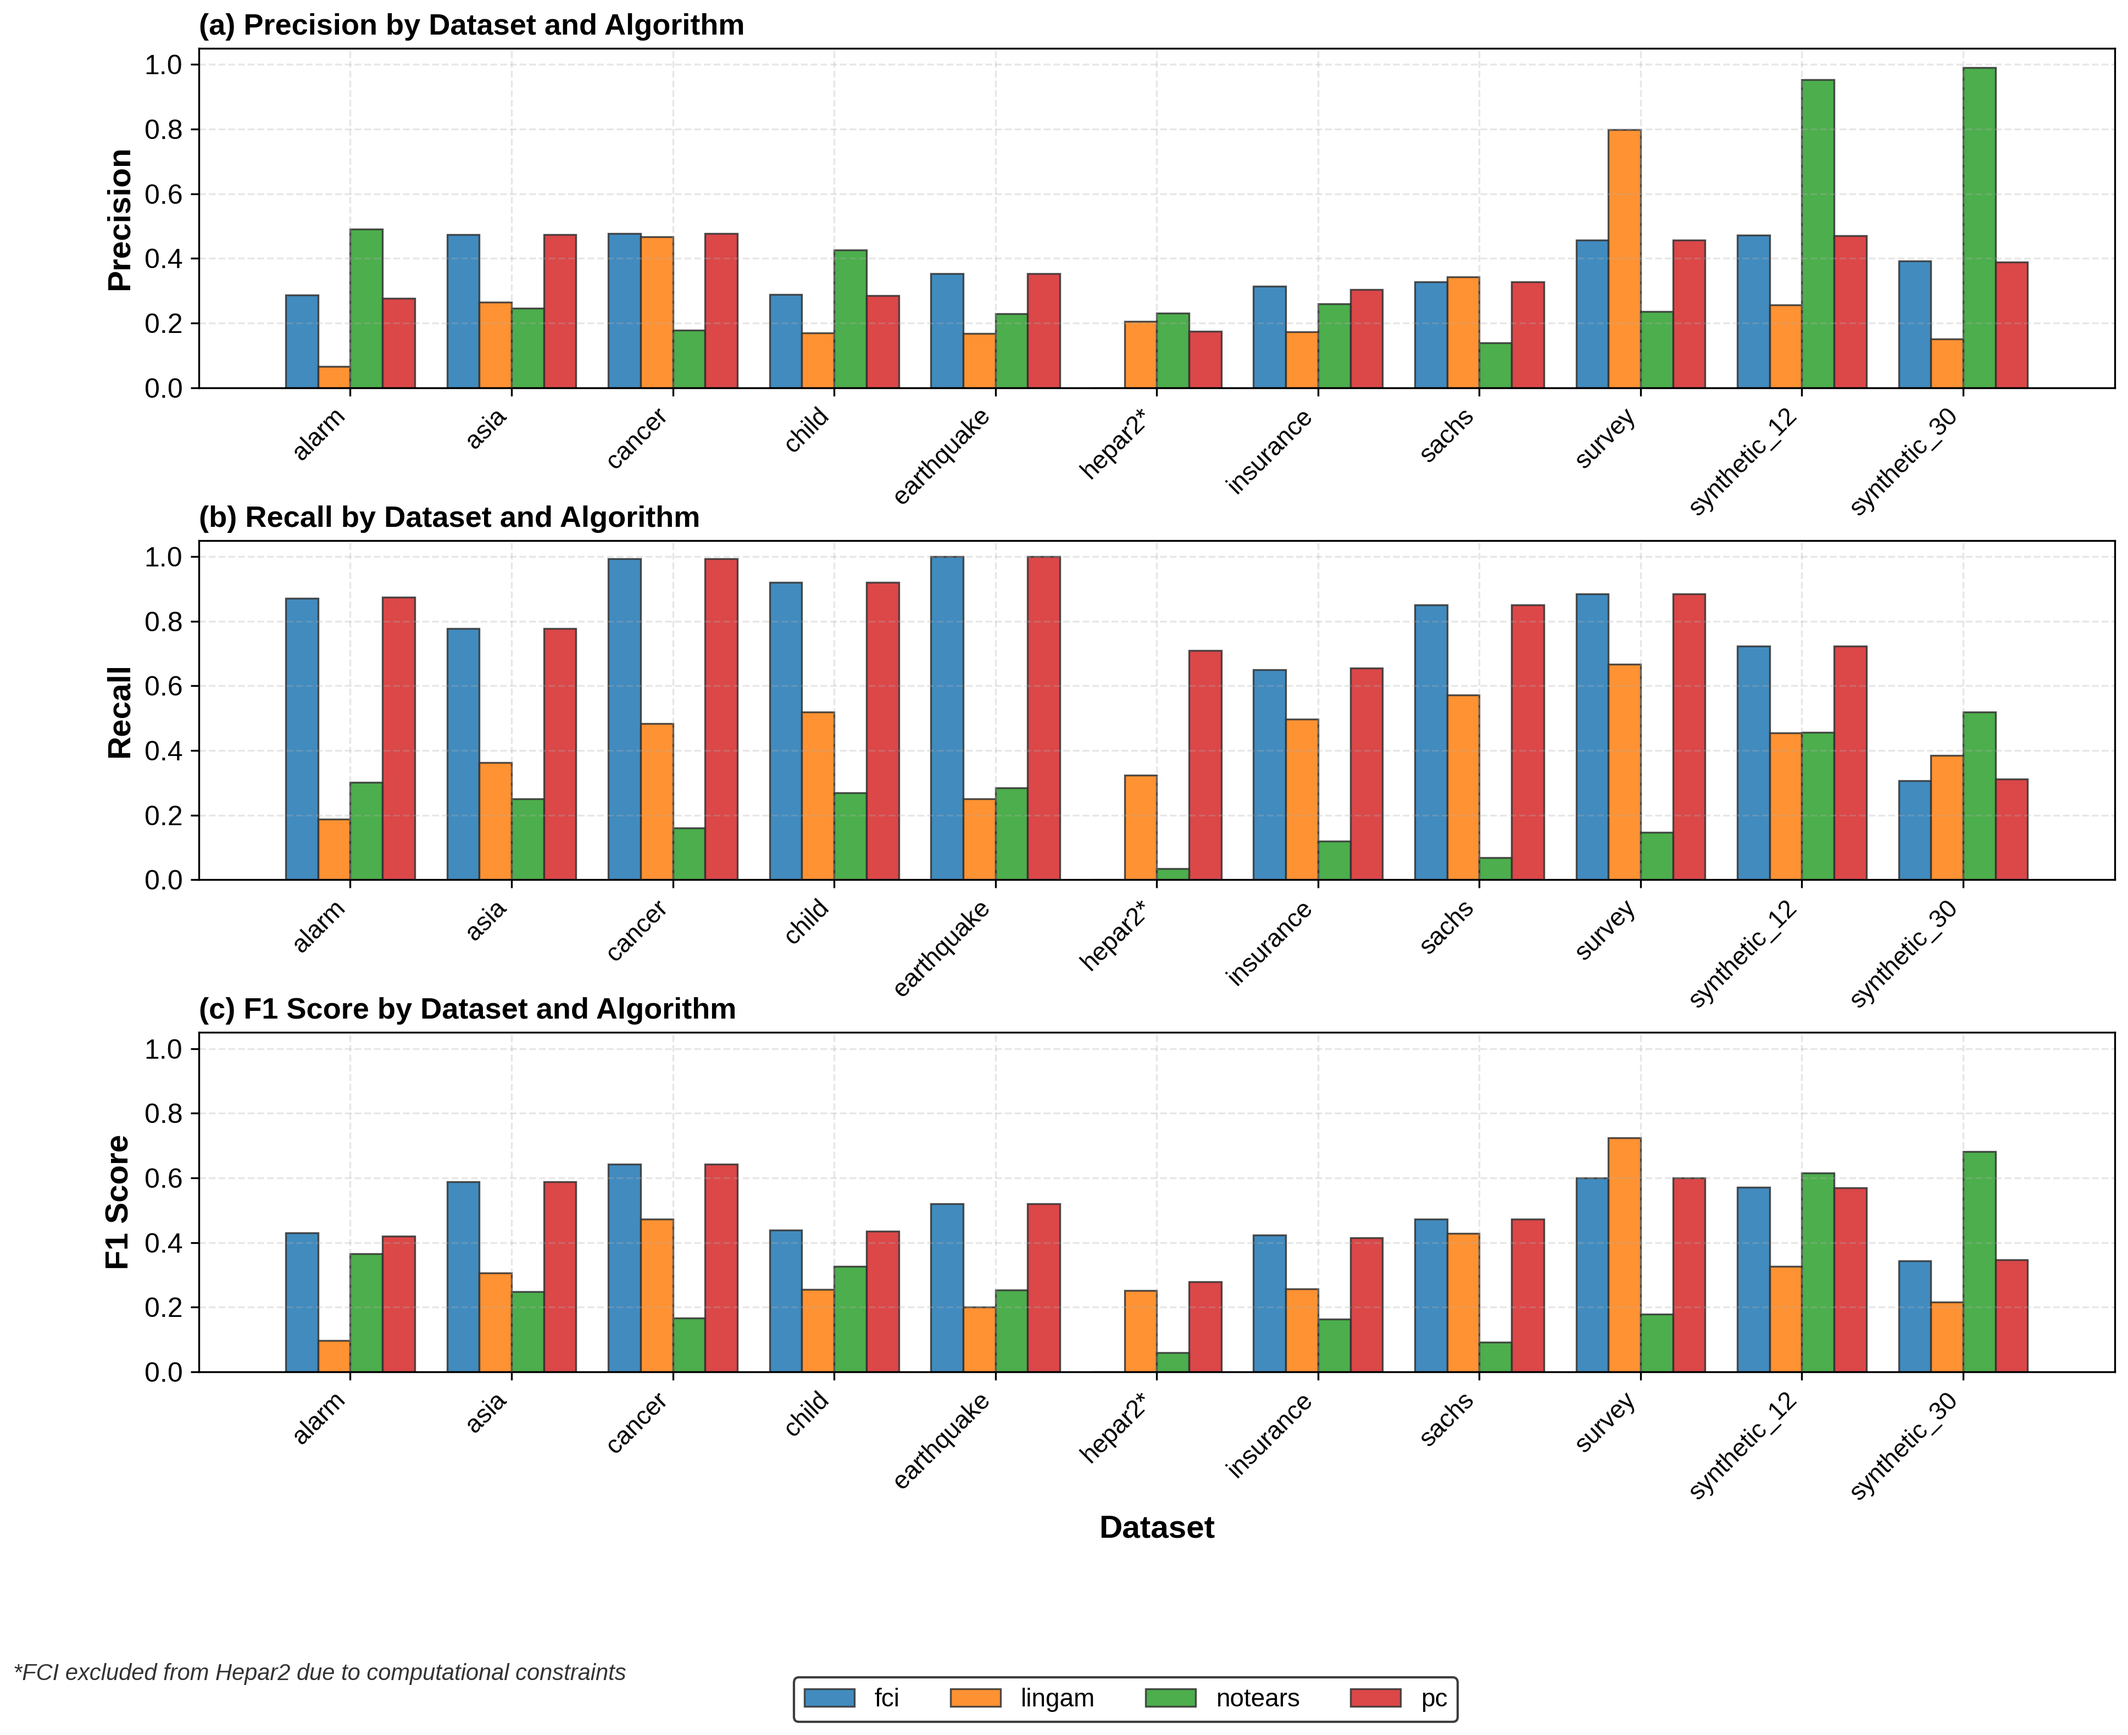
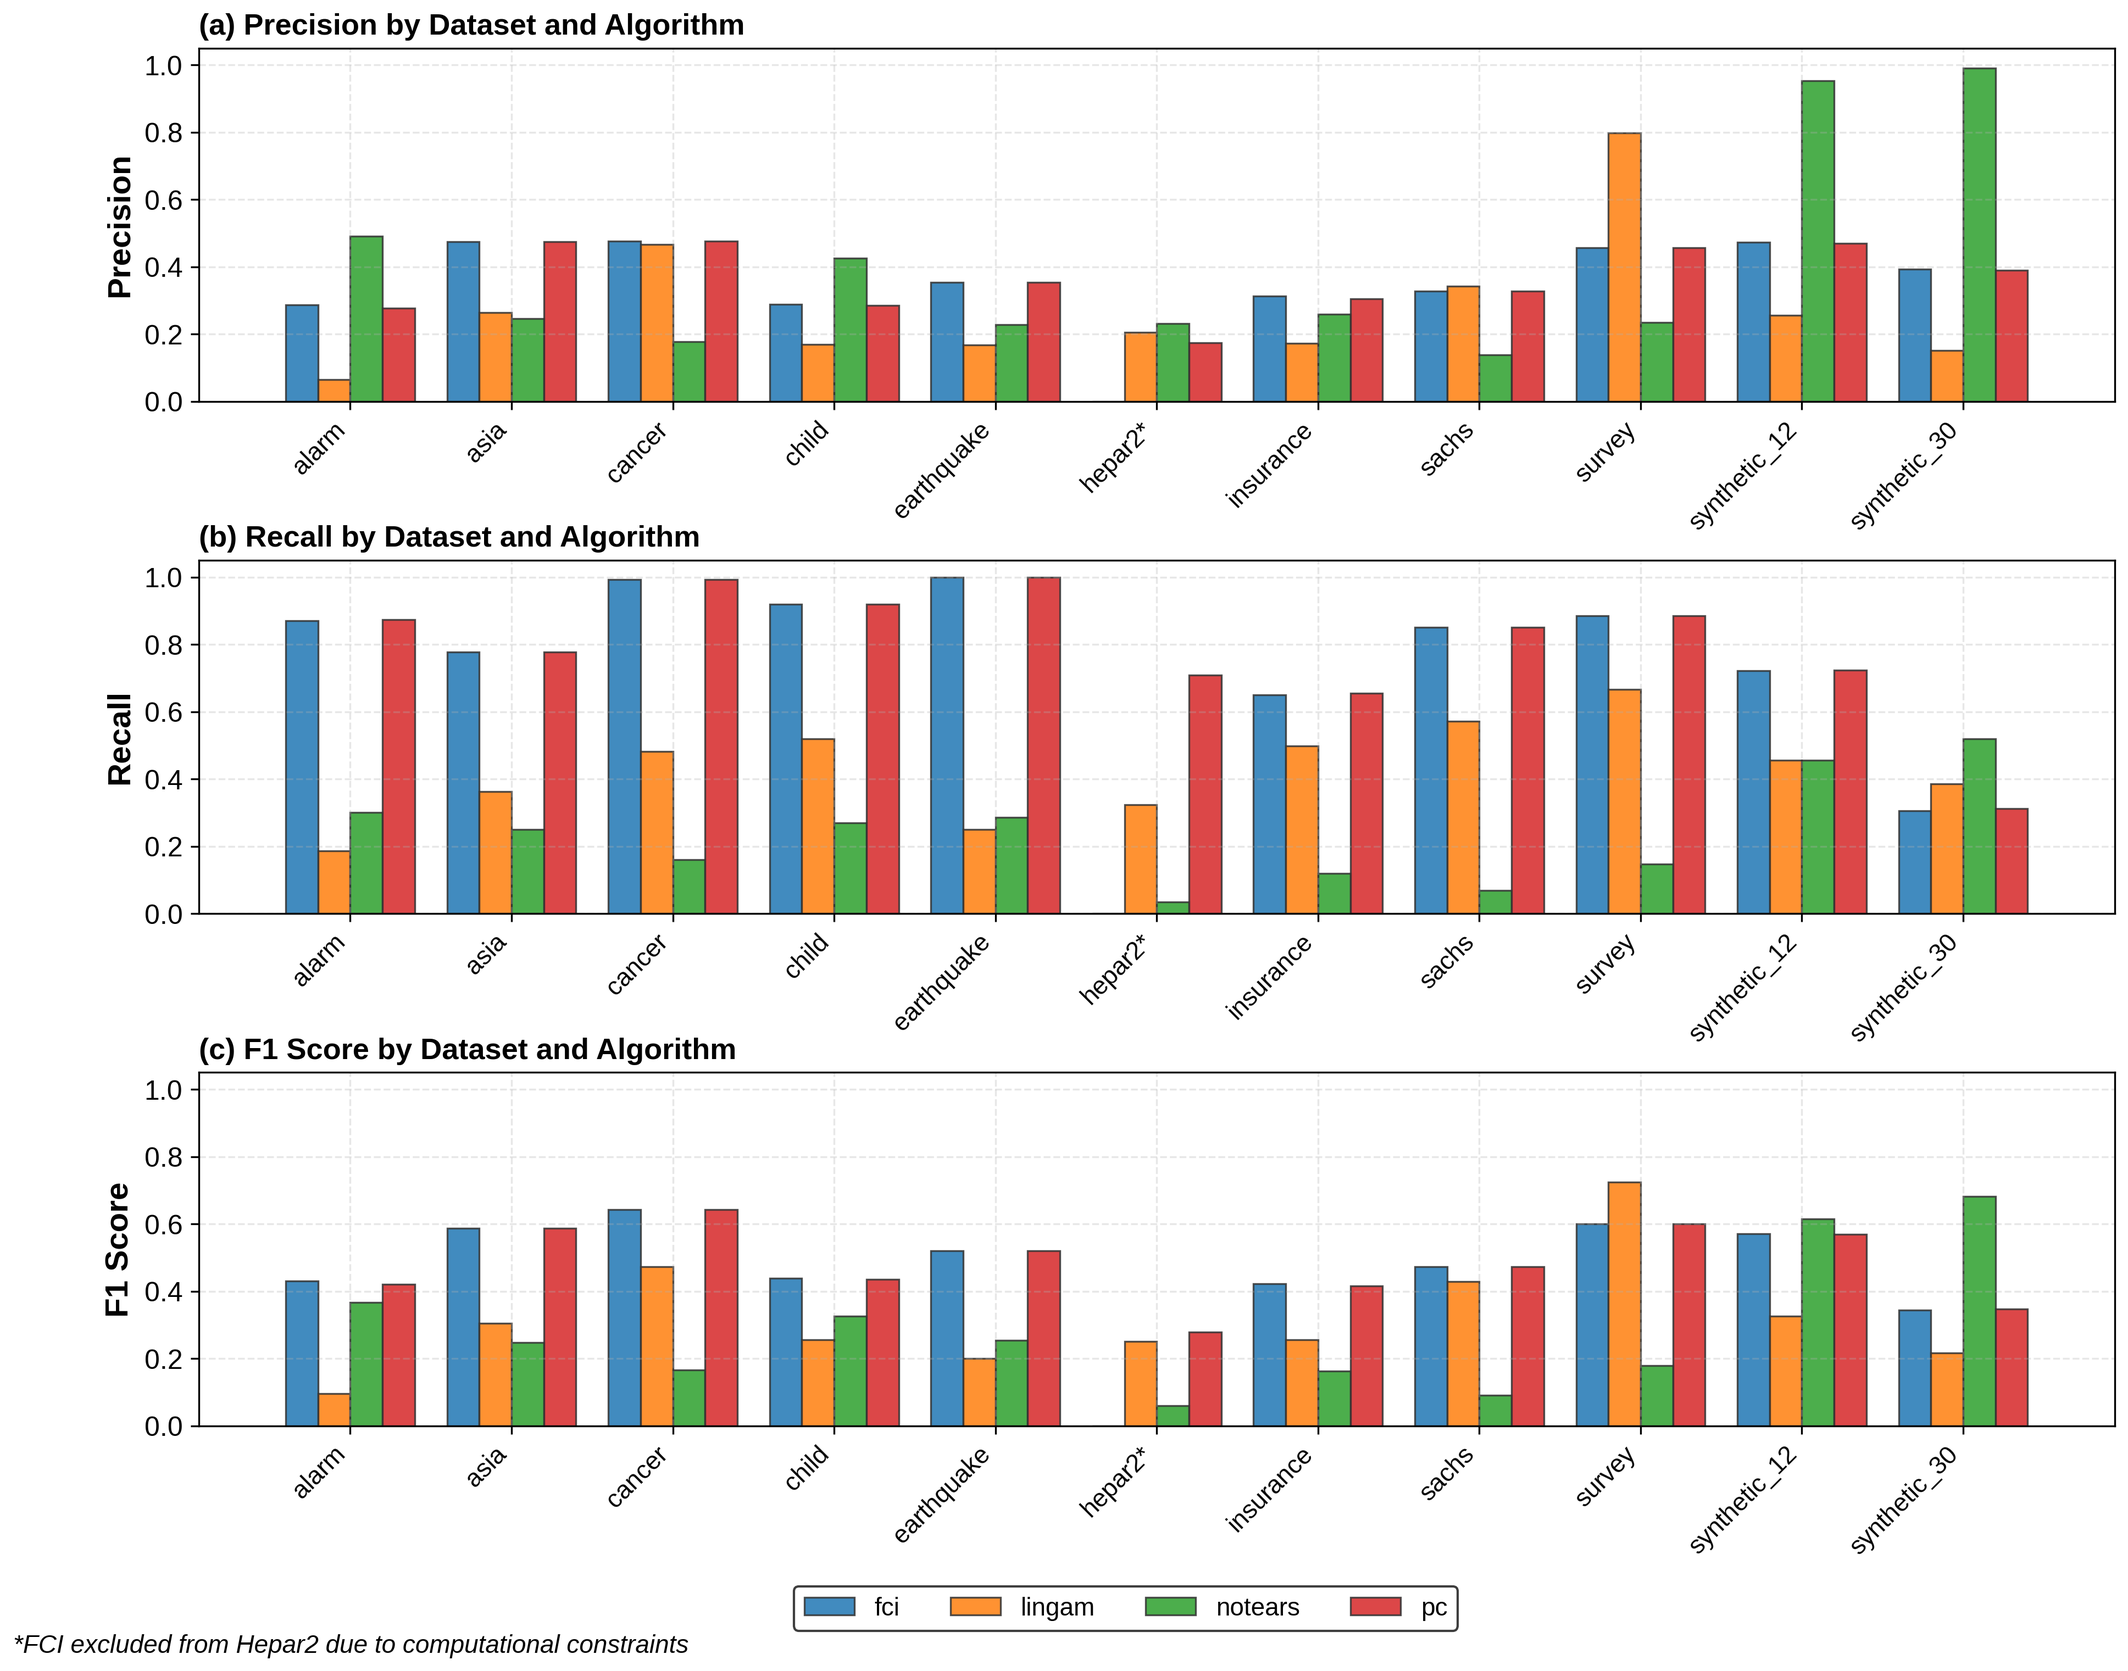
refine plots

diff --git a/src/experiments/analyze_results.py b/src/experiments/analyze_results.py
@@ -374,10 +374,6 @@ def generate_plots(results: Dict[str, Dict], output_dir: Path):
             # Mount asterisk for hepar2
             dataset_labels_x = [f"{d}*" if d == 'hepar2' else d for d in datasets]
             
-            # Only show x-axis label on the last subplot
-            if metric_idx == 2:
-                ax.set_xlabel('Dataset', fontweight='bold', fontsize=14)
-            
             ax.set_ylabel(metric_label, fontweight='bold', fontsize=14)
             ax.set_title(f'({chr(97 + metric_idx)}) {metric_label} by Dataset and Algorithm', 
                         fontweight='bold', fontsize=13, loc='left')
@@ -390,13 +386,13 @@ def generate_plots(results: Dict[str, Dict], output_dir: Path):
         # Add common legend at bottom in one horizontal line
         fig.legend(handles_list, labels_list, loc='lower center', ncol=4, 
                   fontsize=11, framealpha=0.95, edgecolor='#333333', 
-                  bbox_to_anchor=(0.5, -0.05), frameon=True)
+                  bbox_to_anchor=(0.5, 0.0), frameon=True)
         
-        # Add hepar2 note on the left
-        fig.text(0.05, -0.02, '*FCI excluded from Hepar2 due to computational constraints', 
-                ha='left', fontsize=10, style='italic', color='#333333')
+        # Add hepar2 note on the left, aligned with legend
+        fig.text(0.05, -0.005, '*FCI excluded from Hepar2 due to computational constraints', 
+                ha='left', fontsize=11, style='italic', color='black')
         
-        plt.subplots_adjust(hspace=0.45, bottom=0.15)
+        plt.subplots_adjust(hspace=0.45, bottom=0.12)
         save_plots_hq(fig, plots_dir, "05b_metrics_by_dataset")
         plt.close()
         print(f"  ✓ 05b_metrics_by_dataset.pdf/png")
